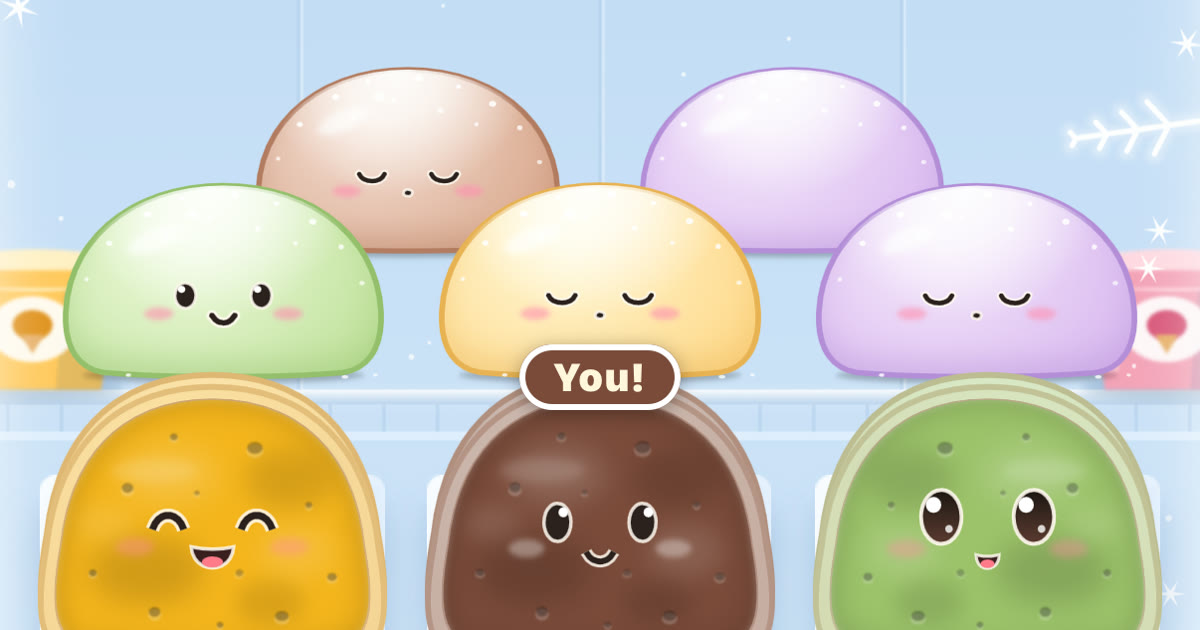
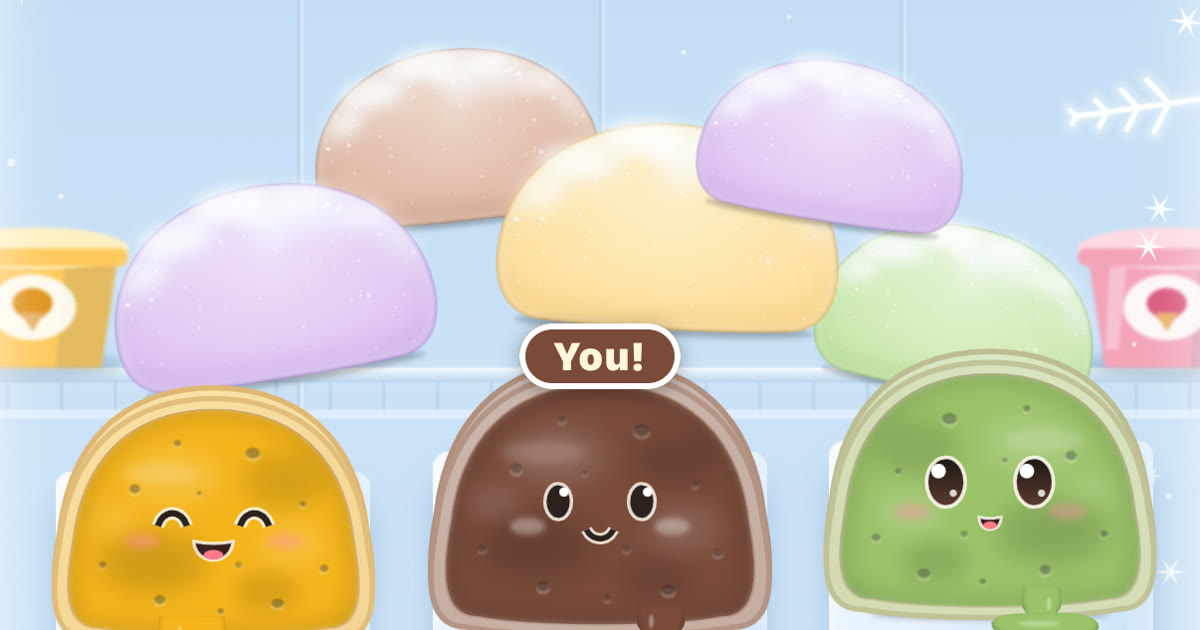
Hero: pile v2 (matte, powder-dusted whole mochi heaped casually behind the halves)

diff --git a/index.html b/index.html
@@ -14,7 +14,7 @@
   <meta property="og:image" content="https://mochiroyale.github.io/img/og-pile.jpg">
   <meta property="og:image:width" content="1200">
   <meta property="og:image:height" content="630">
-  <meta property="og:image:alt" content="Three halved ice cream mochi with faces on ice slabs, five whole dusted mochi heaped behind them.">
+  <meta property="og:image:alt" content="Three halved ice cream mochi with faces on ice slabs, five whole, powder-dusted mochi heaped behind them.">
   <link rel="icon" type="image/png" href="img/favicon-64.png">
   <link rel="apple-touch-icon" href="img/apple-touch-icon.png">
   <link rel="preload" href="fonts/fredoka-latin.woff2" as="font" type="font/woff2" crossorigin>
@@ -28,7 +28,7 @@
       <img class="icon" src="img/icon-256.png" width="128" height="128" alt="The Mochi Royale app icon: a smiling purple ube mochi on a blue sky.">
       <h1 class="logo" aria-label="Mochi Royale"><span class="w1" aria-hidden="true">Mochi</span><span class="w2" aria-hidden="true">Royale</span></h1>
       <img class="pile" src="img/pile.webp" width="960" height="661" fetchpriority="high"
-        alt="A pile of ice cream mochi on ice slabs: three halved mochi up front showing mango, chocolate and matcha fillings, smiling, with five whole mochi dusted in white powder heaped behind them, some asleep.">
+        alt="A pile of ice cream mochi on ice slabs: three halved mochi up front showing mango, chocolate and matcha fillings, smiling, with five whole mochi, dusted in white starch powder, heaped casually behind them.">
       <p class="pitch">A cute tile-hopping battle where ice cream mochi smash, bite and race across cracking ice.</p>
       <p class="subpitch">Four squishy mochi, one sheet of ice. Hop between slabs, grab power-ups and bonk your rivals with the Kine Mallet.</p>
 
